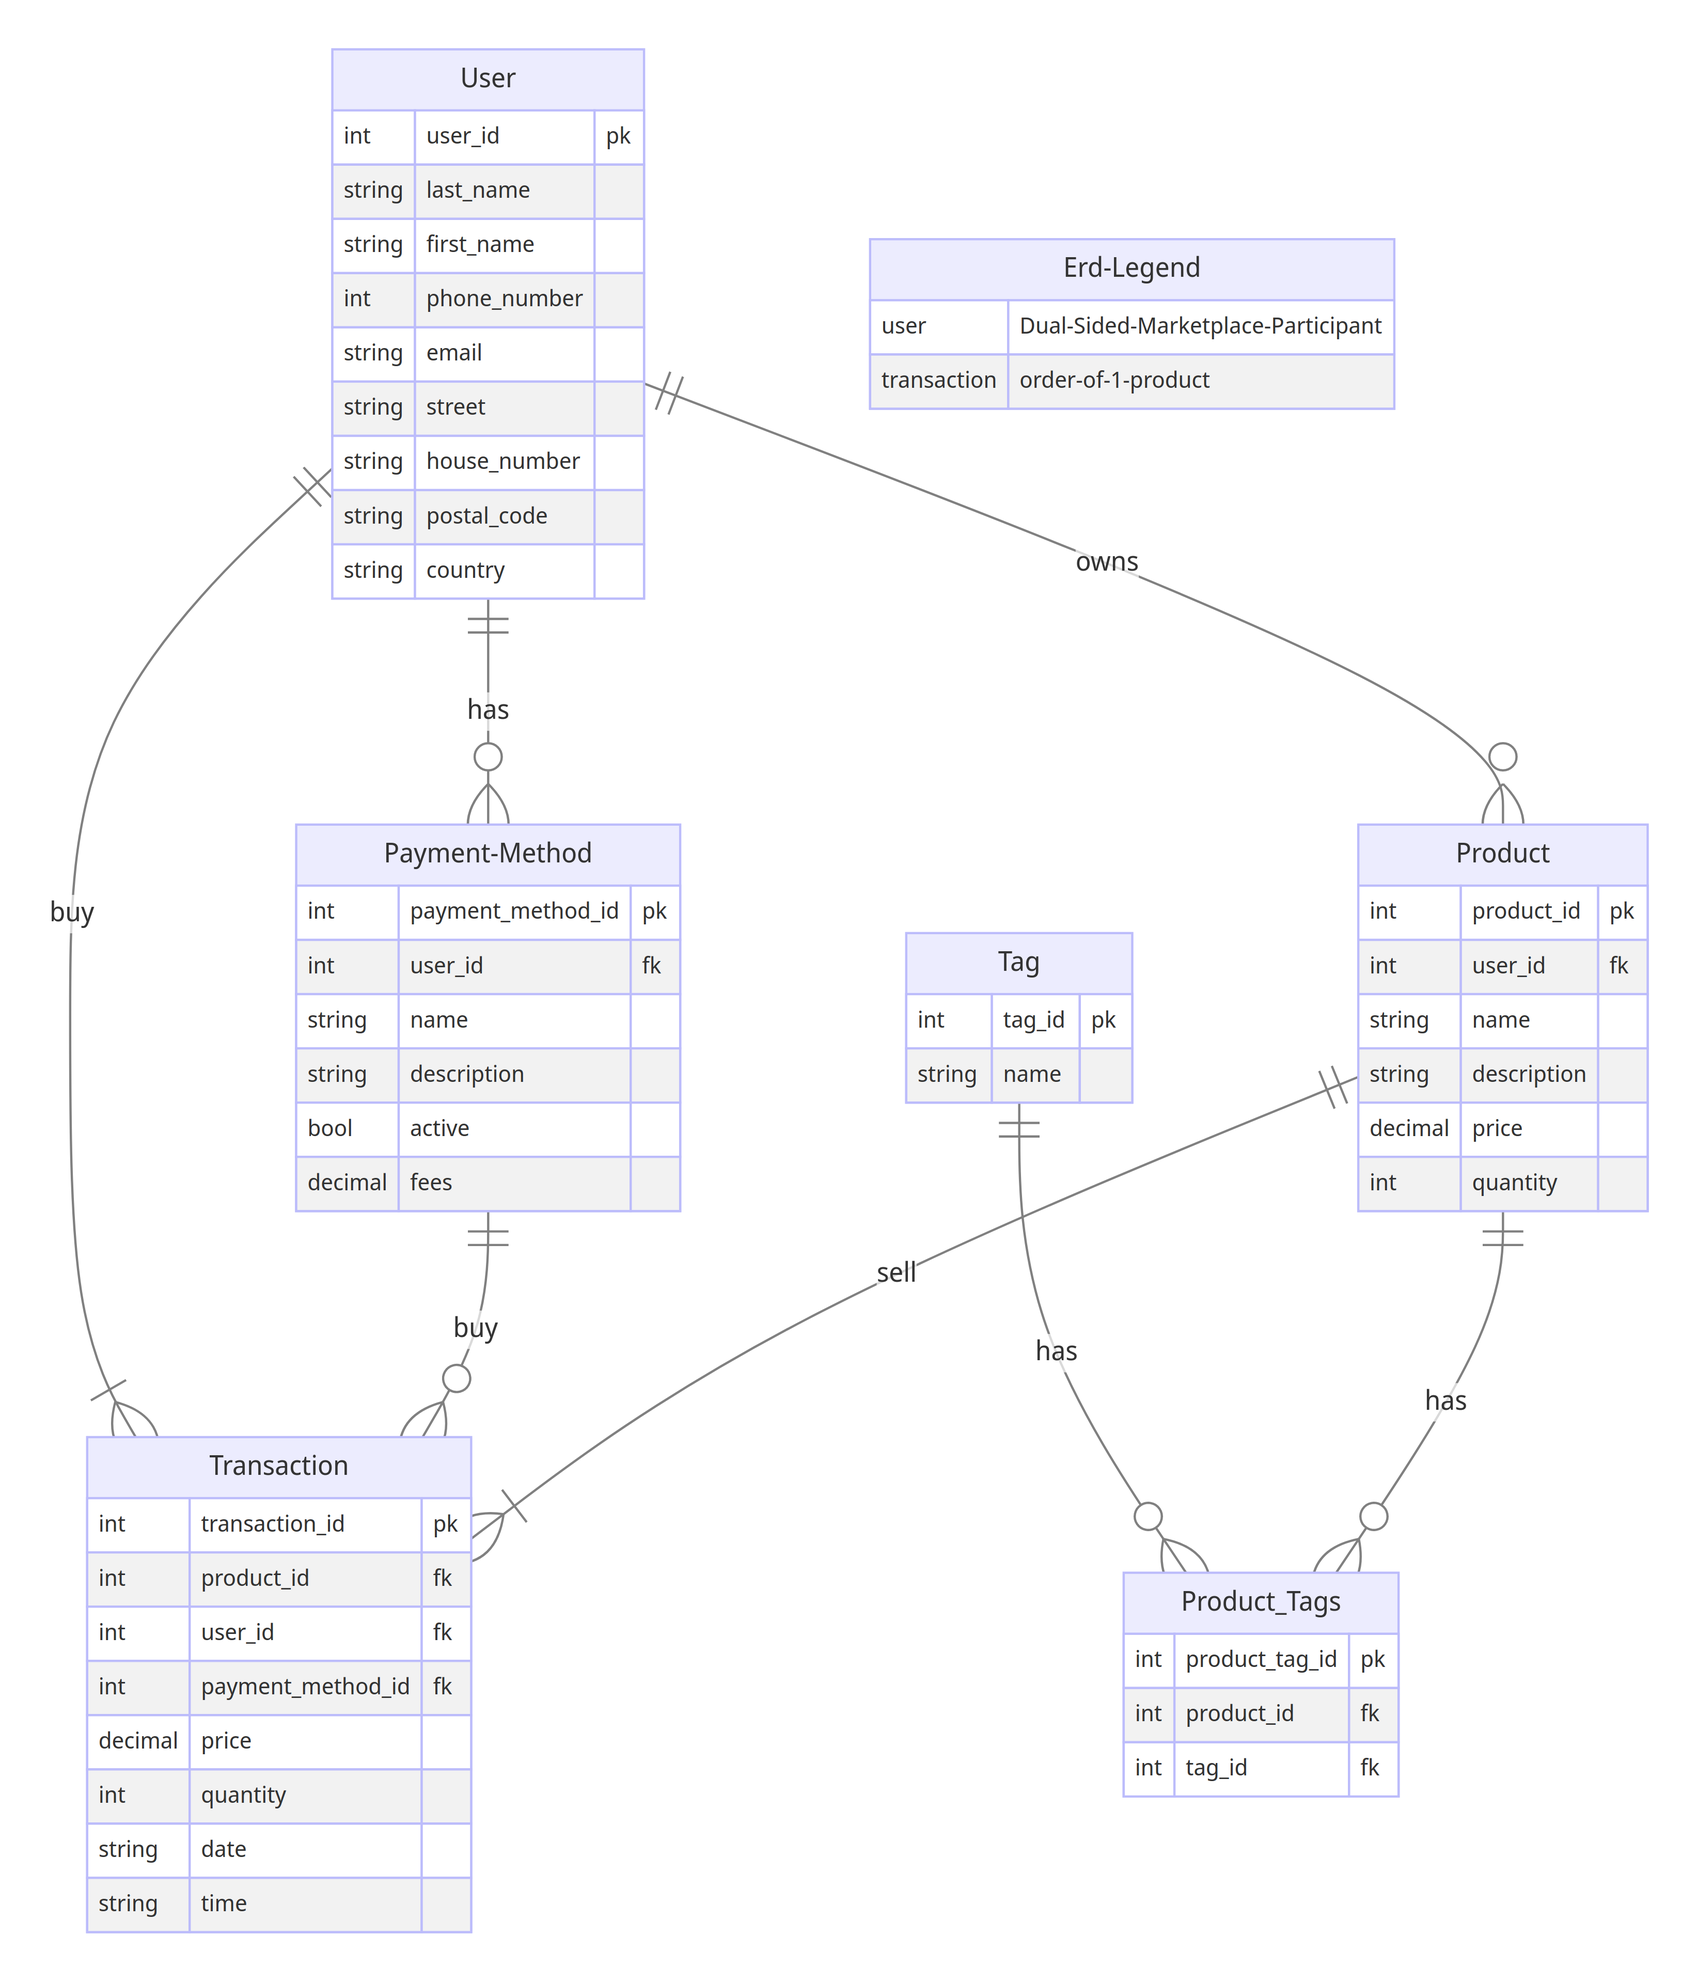
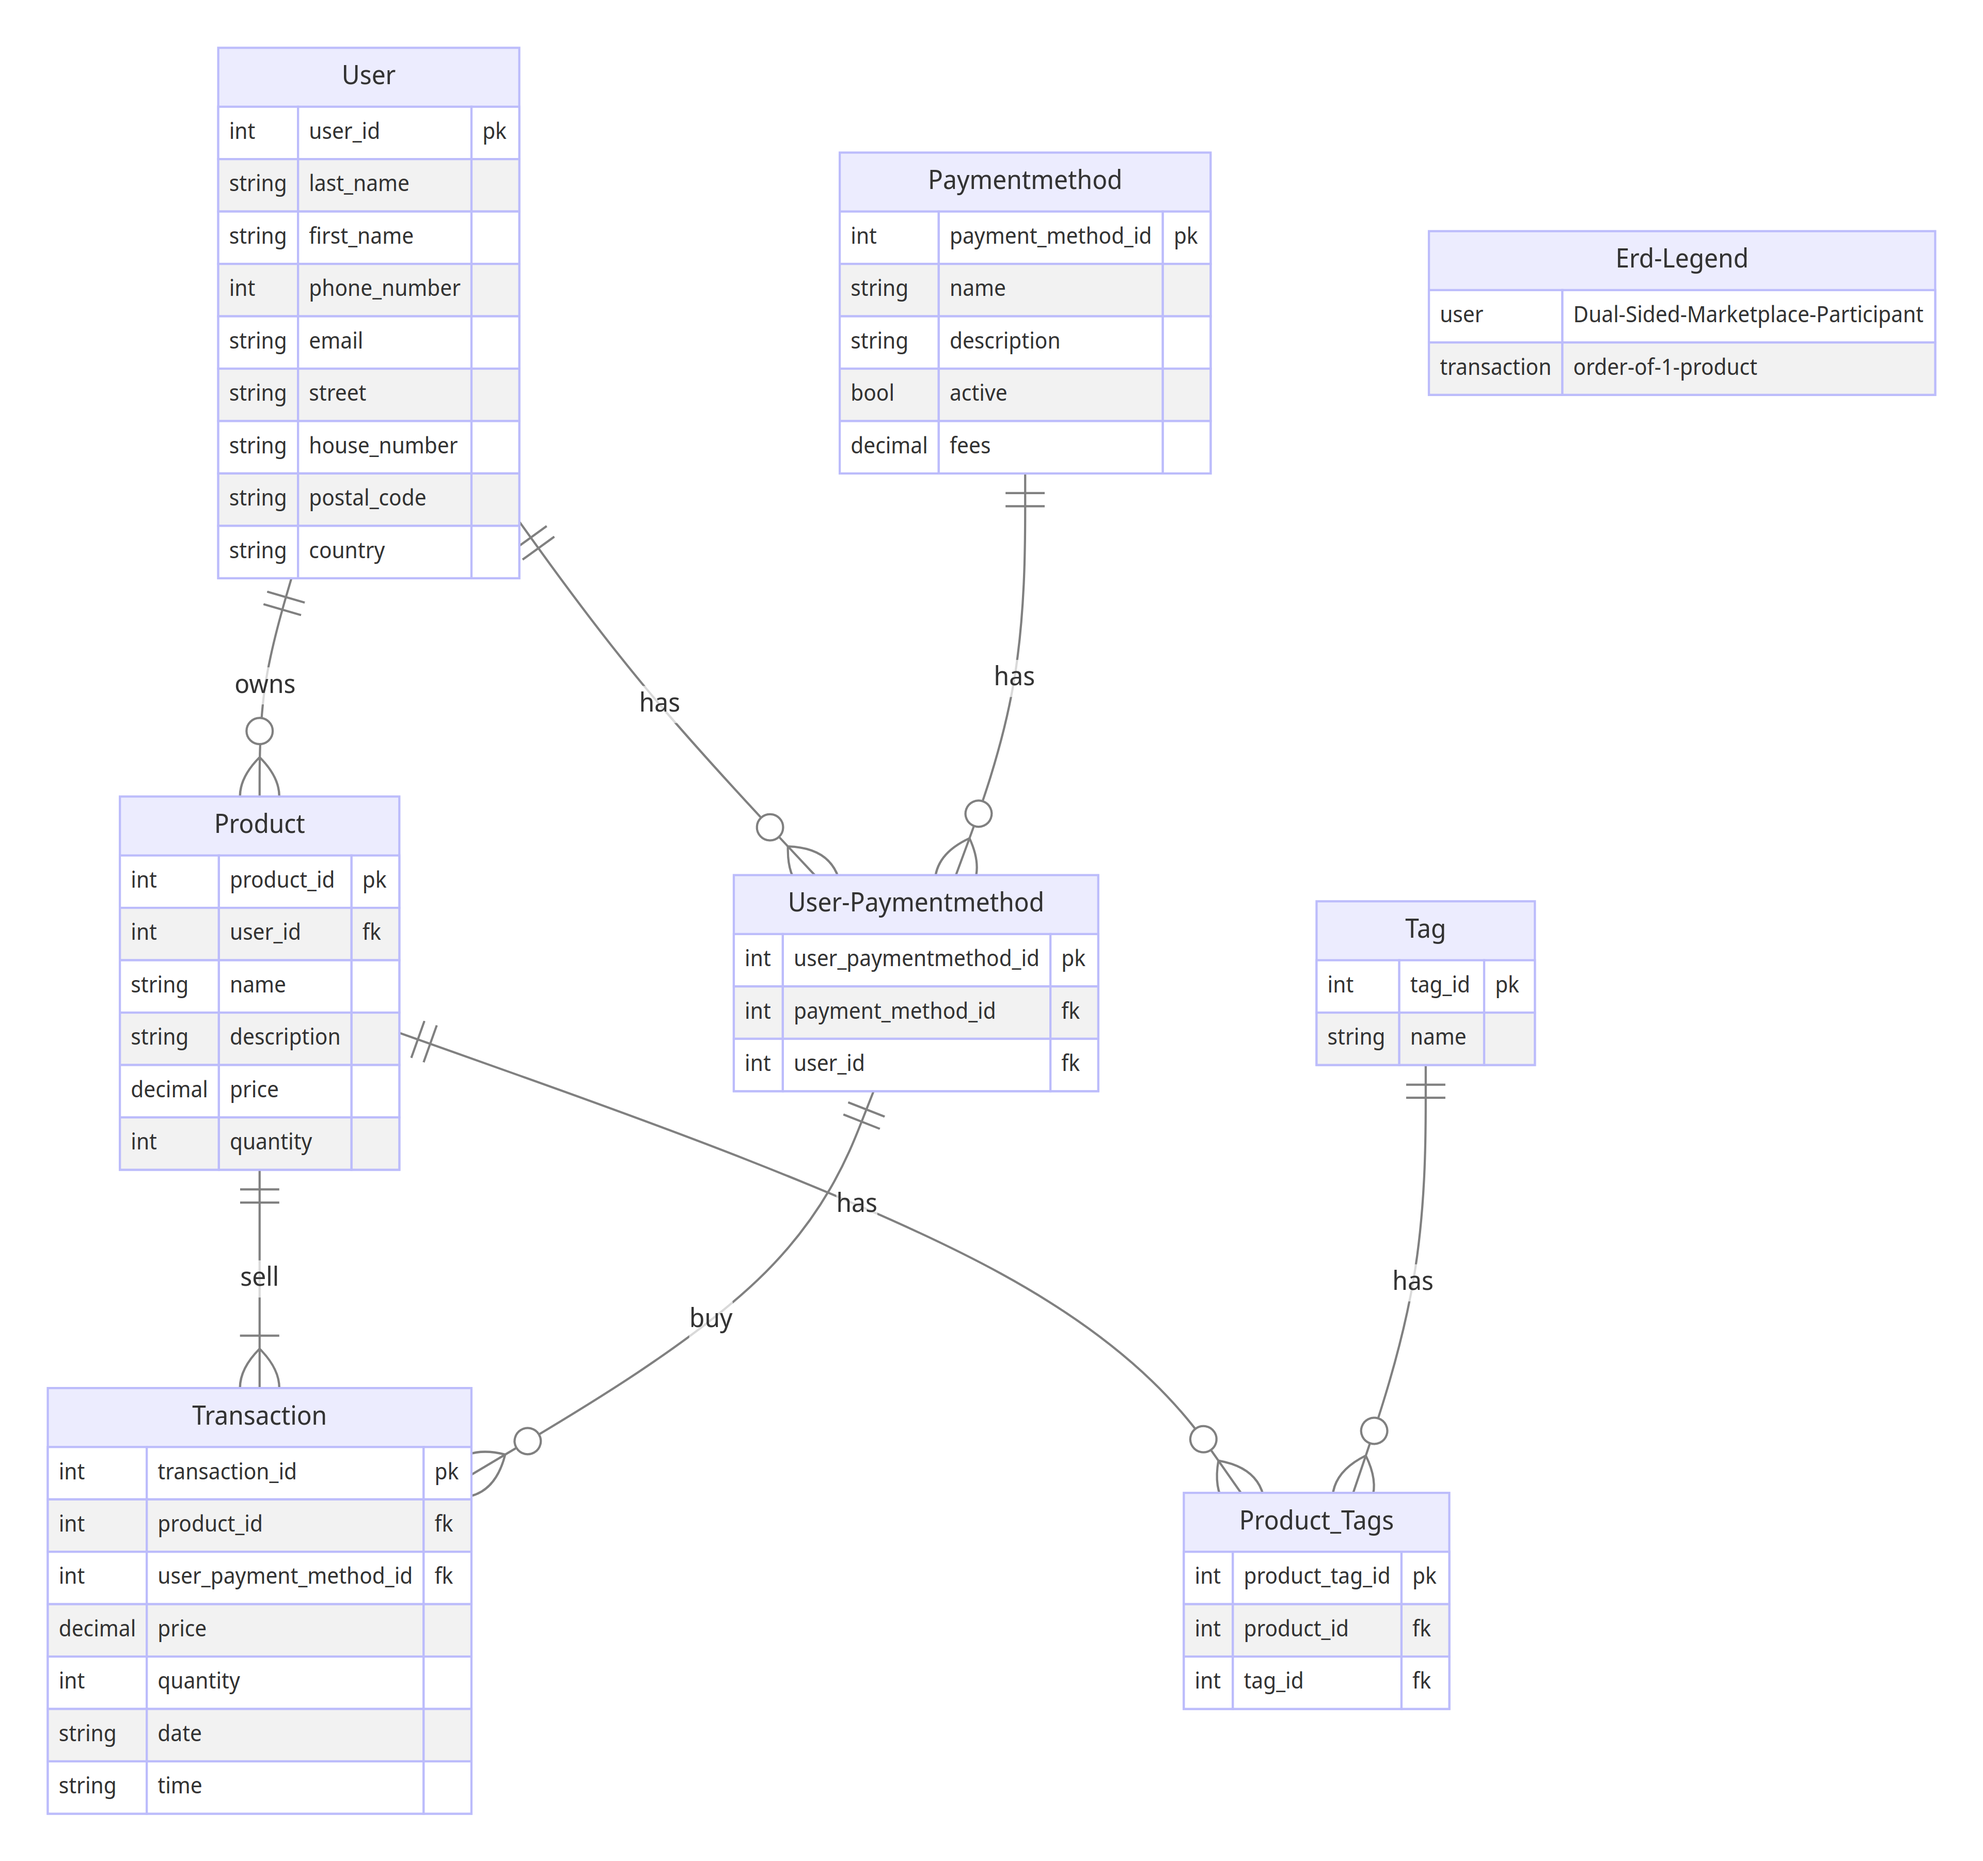
subject: erd / models.py 1. update erd (.../readme_files/images_in_readme_files/erd_betsy_webshop.png). This erd    is referred to in the readme.md file --> chapter erd. 2. update models.py (about halfway)

diff --git a/setupdb.py b/setupdb.py
@@ -1,0 +1,86 @@
+from models import *
+import os, sys
+sys.path.append('c:\\dev\\pytWinc\\betsy-webshop')
+sys.path.append('c:\\dev\\pytWinc\\betsy-webshop\\utils')
+from utils.utils import create_sample_data_product, create_sample_data_user
+
+def main():
+    # delete_database()
+    populate_database()
+
+def delete_database():
+    cwd = os.getcwd()
+    database_path = os.path.join(cwd, "database.db")
+    if os.path.exists(database_path):
+        os.remove(database_path)
+
+def populate_database():
+
+    db.connect()
+
+    db.create_tables([User, Product, PaymentMethod, Transaction, Tag, ProductTag, UserPaymentMethod])
+
+    users = create_sample_data_user(6)
+    for user in users:
+        print(user)
+        User.create(last_name=user["last_name"], first_name=user["first_name"], phone_number=user["phone_number"], email=user["email"], street=user["street"], house_number=user["house_number"], postal_code=user["postal_code"], city=user["city"], country=user["country"], password=user["password"])
+
+
+    payment_methods = [
+        ["credit_card", "Pay after the purchase transaction", "world", True, 0.035],
+        ["direct_debit",  "bank-to-bank transfer system", "Europe", True, 0.00],     
+        ["ideal", "bank-to-bank transfer system", "Netherlands", True, 0.11],
+        ["paypal", "worldwide payment system for individuals and businesses", "world", True, 0.025]
+    ]
+    for payment_method in payment_methods:
+        PaymentMethod.create(name=payment_method[0], description=payment_method[1], active=payment_method[3], fee=payment_method[4])
+
+    user_paymentmethods = [
+        [1, 2],
+        [1, 3],
+        [2, 2],
+        [2, 4],
+        [3, 1],
+        [3, 2],
+        [3, 3],
+        [3, 4],
+        [4, 1],
+        [4, 2],
+        [5, 3],
+        [5, 4],
+        [6, 1],
+        [6, 2],
+        [6, 4],
+    ]
+    for user_paymentmethod in user_paymentmethods:
+        UserPaymentMethod.create(user=user_paymentmethod[0], payment_method=user_paymentmethod[1])
+
+    products = create_sample_data_product(6)
+    for product in products:
+        Product.create(user_id=product["user_id"], name=product["name"], description=product["description"], price=product["price"], quantity=product["quantity"])
+
+    transactions = [
+        [1, 2, 3, ],
+        [1, 3, 4, ],
+        [2, 2, 5, ],
+        [2, 4, 6, ],
+        [3, 1, 2, ],
+        [3, 2, 3, ],
+        [3, 3, 4, ],
+        [3, 4, 5, ],
+        [4, 1, 3, ],
+        [4, 2, 4, ],
+        [5, 3, 6, ],
+        [5, 4, 7, ],
+        [6, 1, 4, ],
+        [6, 2, 5, ],
+        [6, 4, 6, ],
+    ]
+    for transaction in transactions:
+        Transaction.create(user_payment_method=transaction[0], product=transaction[1])
+
+
+    db.close()
+
+if __name__ == "__main__":
+    main()

diff --git a/models.py b/models.py
@@ -33,31 +33,37 @@ class User(BaseModel):
     password = CharField()
 
 
+
 class Product(BaseModel):
     id = AutoField()
     user = ForeignKeyField(User, backref="products")
     name = CharField()
     description = TextField()
     price = DecimalField()
-    available = BooleanField()
+    quantity = IntegerField()
 
 class PaymentMethod(BaseModel):
     id = AutoField()
-    user = ForeignKeyField(User, backref="payment_methods")
     name = CharField()
     description = TextField()
     active = BooleanField()
-    fee = CharField() # percentage, e.g. 0.01 = 1% // amount: 1.00 = 1 euro, 0.50 = 50 cents // "no extra costs"
+    fee = DecimalField() # fee is a percentage of the transaction amount
+
+class UserPaymentMethod(BaseModel):
+    user = ForeignKeyField(User, backref='payment_methods')
+    payment_method = ForeignKeyField(PaymentMethod, backref='users')
 
 class Transaction(BaseModel):
     id = AutoField()
-    payment_method = ForeignKeyField(PaymentMethod, backref="transactions") # backref: get all transactions for this payment method
+    user_payment_method = ForeignKeyField(UserPaymentMethod, backref="transactions") # backref: get all transactions for this payment method
     product = ForeignKeyField(Product, backref="transactions") # backref: get all transactions for this product
     User = ForeignKeyField(User, backref="transactions") # backref: get all transactions for this user
     quantity = IntegerField()
     price = DecimalField()
     date = DateField()
     time = TimeField()
+
+
 
 class Tag(BaseModel):
     id = AutoField()

diff --git a/utils/utils.py b/utils/utils.py
@@ -1,0 +1,31 @@
+def create_sample_data_product(n: int) -> list[list[str]]:
+    users = []
+    for i in range(n):
+        user = {
+            "user_id": f"{i + 1}", 
+            # random user_id makes fn more difficult to test.
+            "name": f"product_name_{i + 1}", 
+            "description": f"product_description_{i + 1}",
+            "price": f"{round((i + 1), 2)}",
+            "quantity":f"{i + 1}",
+        }
+        users.append(user)
+    return users
+
+def create_sample_data_user(n: int) -> list[list[str]]:
+    users = []
+    for i in range(n):
+        user = {
+            "last_name": f"last_name_{i + 1}",
+            "first_name": f"first_name_{i + 1}",
+            "phone_number": f"{i + 1}",
+            "email": f"email_{i + 1}@example.com",
+            "street":f"street_{i + 1}",
+            "house_number": f"{i + 1}",
+            "postal_code": f"postal_code_{i + 1}",
+            "city": f"city_{i}",
+            "country": f"country_{i + 1}",
+            "password":f"password_{i + 1}",
+        }
+        users.append(user)
+    return users
